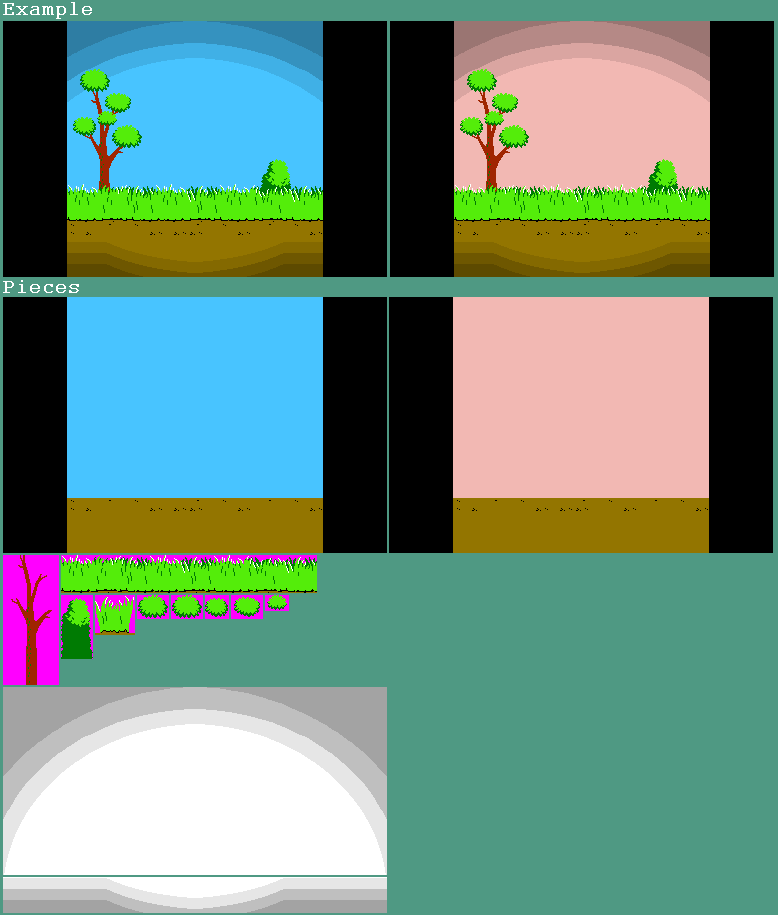
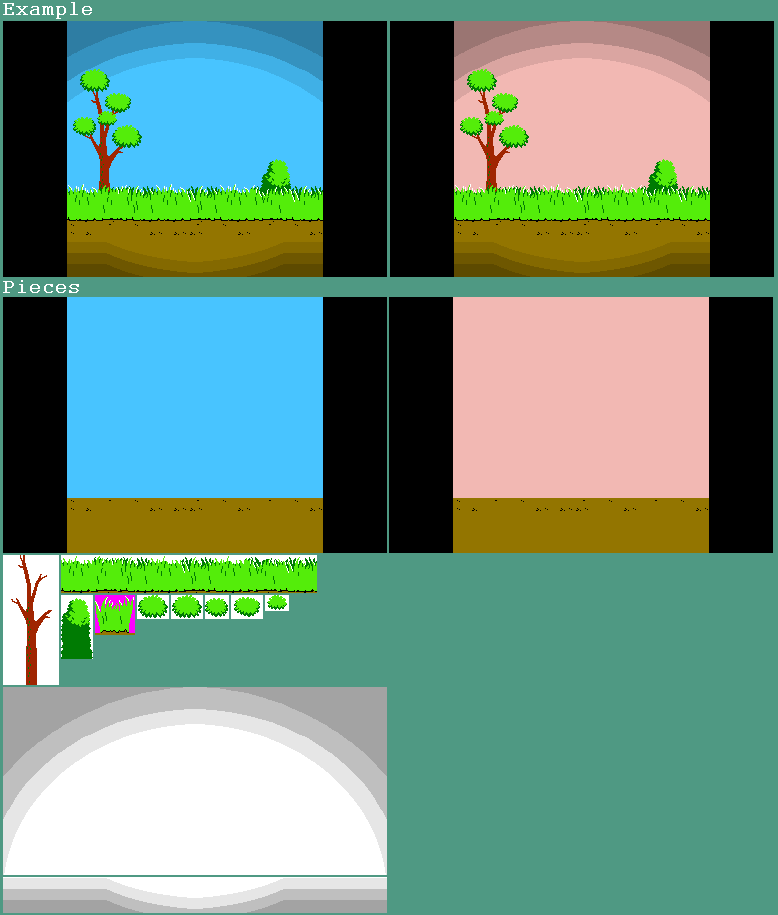
Add all background elements

Changed region(s): [[0.0, 0.5814, 0.401, 0.765], [0.1542, 0.6426, 0.3702, 0.6732]]

diff --git a/src/GameConfig.cpp b/src/GameConfig.cpp
@@ -32,13 +32,94 @@ void GameConfig::initialize()
         .setMouseCursorVisible(false);
 
     /// Background
-    auto back = ecstasy::RegistryEntity(
-        _registry.entityBuilder()
-            .with<sf::RectangleShape>(sf::Vector2f(static_cast<float>(_size.x), static_cast<float>(_size.y)))
-            .build(),
-        _registry);
-    back.get<sf::RectangleShape>().setTextureRect(sf::IntRect(67, 297, 256, 256));
-    back.get<sf::RectangleShape>().setTexture(&_textures.at("background"));
+    float scaleY = (static_cast<float>(_size.y) / 256.f);
+    float scaleX = (static_cast<float>(_size.x) / 256.f);
+
+    auto &back = _registry.entityBuilder()
+                     .with<sf::RectangleShape>(sf::Vector2f(static_cast<float>(_size.x), static_cast<float>(_size.y)))
+                     .build()
+                     .get(_registry.getStorage<sf::RectangleShape>());
+    back.setTextureRect(sf::IntRect(67, 297, 256, 256));
+    back.setTexture(&_textures.at("background"));
+
+    auto &backBlurTop = _registry.entityBuilder()
+                            .with<sf::RectangleShape>(sf::Vector2f(static_cast<float>(_size.x), 188 * scaleY))
+                            .build()
+                            .get(_registry.getStorage<sf::RectangleShape>());
+    backBlurTop.setTextureRect(sf::IntRect(67, 687, 256, 188));
+    backBlurTop.setTexture(&_textures.at("background"));
+
+    auto &backBlurBottom = _registry.entityBuilder()
+                               .with<sf::RectangleShape>(sf::Vector2f(static_cast<float>(_size.x), 36 * scaleY))
+                               .build()
+                               .get(_registry.getStorage<sf::RectangleShape>());
+    backBlurBottom.setTextureRect(sf::IntRect(67, 877, 256, 36));
+    backBlurBottom.setTexture(&_textures.at("background"));
+    backBlurBottom.setPosition(0, static_cast<float>(_size.y) - 36 * scaleY);
+
+    auto &backBush = _registry.entityBuilder()
+                         .with<sf::RectangleShape>(sf::Vector2f(32 * scaleX, 64 * scaleY))
+                         .build()
+                         .get(_registry.getStorage<sf::RectangleShape>());
+    backBush.setTextureRect(sf::IntRect(61, 595, 32, 64));
+    backBush.setTexture(&_textures.at("background"));
+    backBush.setPosition(194 * scaleX, 135 * scaleY);
+
+    auto &backTree = _registry.entityBuilder()
+                         .with<sf::RectangleShape>(sf::Vector2f(56 * scaleX, 130 * scaleY))
+                         .build()
+                         .get(_registry.getStorage<sf::RectangleShape>());
+    backTree.setTextureRect(sf::IntRect(3, 555, 56, 130));
+    backTree.setTexture(&_textures.at("background"));
+    backTree.setPosition(10 * scaleX, 69 * scaleY);
+
+    auto &backTreeBush1 = _registry.entityBuilder()
+                              .with<sf::RectangleShape>(sf::Vector2f(32 * scaleX, 24 * scaleY))
+                              .build()
+                              .get(_registry.getStorage<sf::RectangleShape>());
+    backTreeBush1.setTextureRect(sf::IntRect(137, 595, 32, 24));
+    backTreeBush1.setTexture(&_textures.at("background"));
+    backTreeBush1.setPosition(13 * scaleX, 47 * scaleY);
+
+    auto &backTreeBush2 = _registry.entityBuilder()
+                              .with<sf::RectangleShape>(sf::Vector2f(32 * scaleX, 24 * scaleY))
+                              .build()
+                              .get(_registry.getStorage<sf::RectangleShape>());
+    backTreeBush2.setTextureRect(sf::IntRect(231, 595, 32, 24));
+    backTreeBush2.setTexture(&_textures.at("background"));
+    backTreeBush2.setPosition(36 * scaleX, 70 * scaleY);
+
+    auto &backTreeBush3 = _registry.entityBuilder()
+                              .with<sf::RectangleShape>(sf::Vector2f(24 * scaleX, 16 * scaleY))
+                              .build()
+                              .get(_registry.getStorage<sf::RectangleShape>());
+    backTreeBush3.setTextureRect(sf::IntRect(265, 595, 24, 16));
+    backTreeBush3.setTexture(&_textures.at("background"));
+    backTreeBush3.setPosition(29 * scaleX, 90 * scaleY);
+
+    auto &backTreeBush4 = _registry.entityBuilder()
+                              .with<sf::RectangleShape>(sf::Vector2f(24 * scaleX, 24 * scaleY))
+                              .build()
+                              .get(_registry.getStorage<sf::RectangleShape>());
+    backTreeBush4.setTextureRect(sf::IntRect(205, 595, 24, 24));
+    backTreeBush4.setTexture(&_textures.at("background"));
+    backTreeBush4.setPosition(7 * scaleX, 93 * scaleY);
+
+    auto &backTreeBush5 = _registry.entityBuilder()
+                              .with<sf::RectangleShape>(sf::Vector2f(32 * scaleX, 24 * scaleY))
+                              .build()
+                              .get(_registry.getStorage<sf::RectangleShape>());
+    backTreeBush5.setTextureRect(sf::IntRect(137, 595, 32, 24));
+    backTreeBush5.setTexture(&_textures.at("background"));
+    backTreeBush5.setPosition(46 * scaleX, 103 * scaleY);
+
+    auto &backGrass = _registry.entityBuilder()
+                          .with<sf::RectangleShape>(sf::Vector2f(static_cast<float>(_size.x), 38 * scaleY))
+                          .build()
+                          .get(_registry.getStorage<sf::RectangleShape>());
+    backGrass.setTextureRect(sf::IntRect(61, 555, 256, 38));
+    backGrass.setTexture(&_textures.at("background"));
+    backGrass.setPosition(0, static_cast<float>(_size.y) - 93 * scaleY);
 
     /// Target
     auto &targetRect = _registry.entityBuilder()
